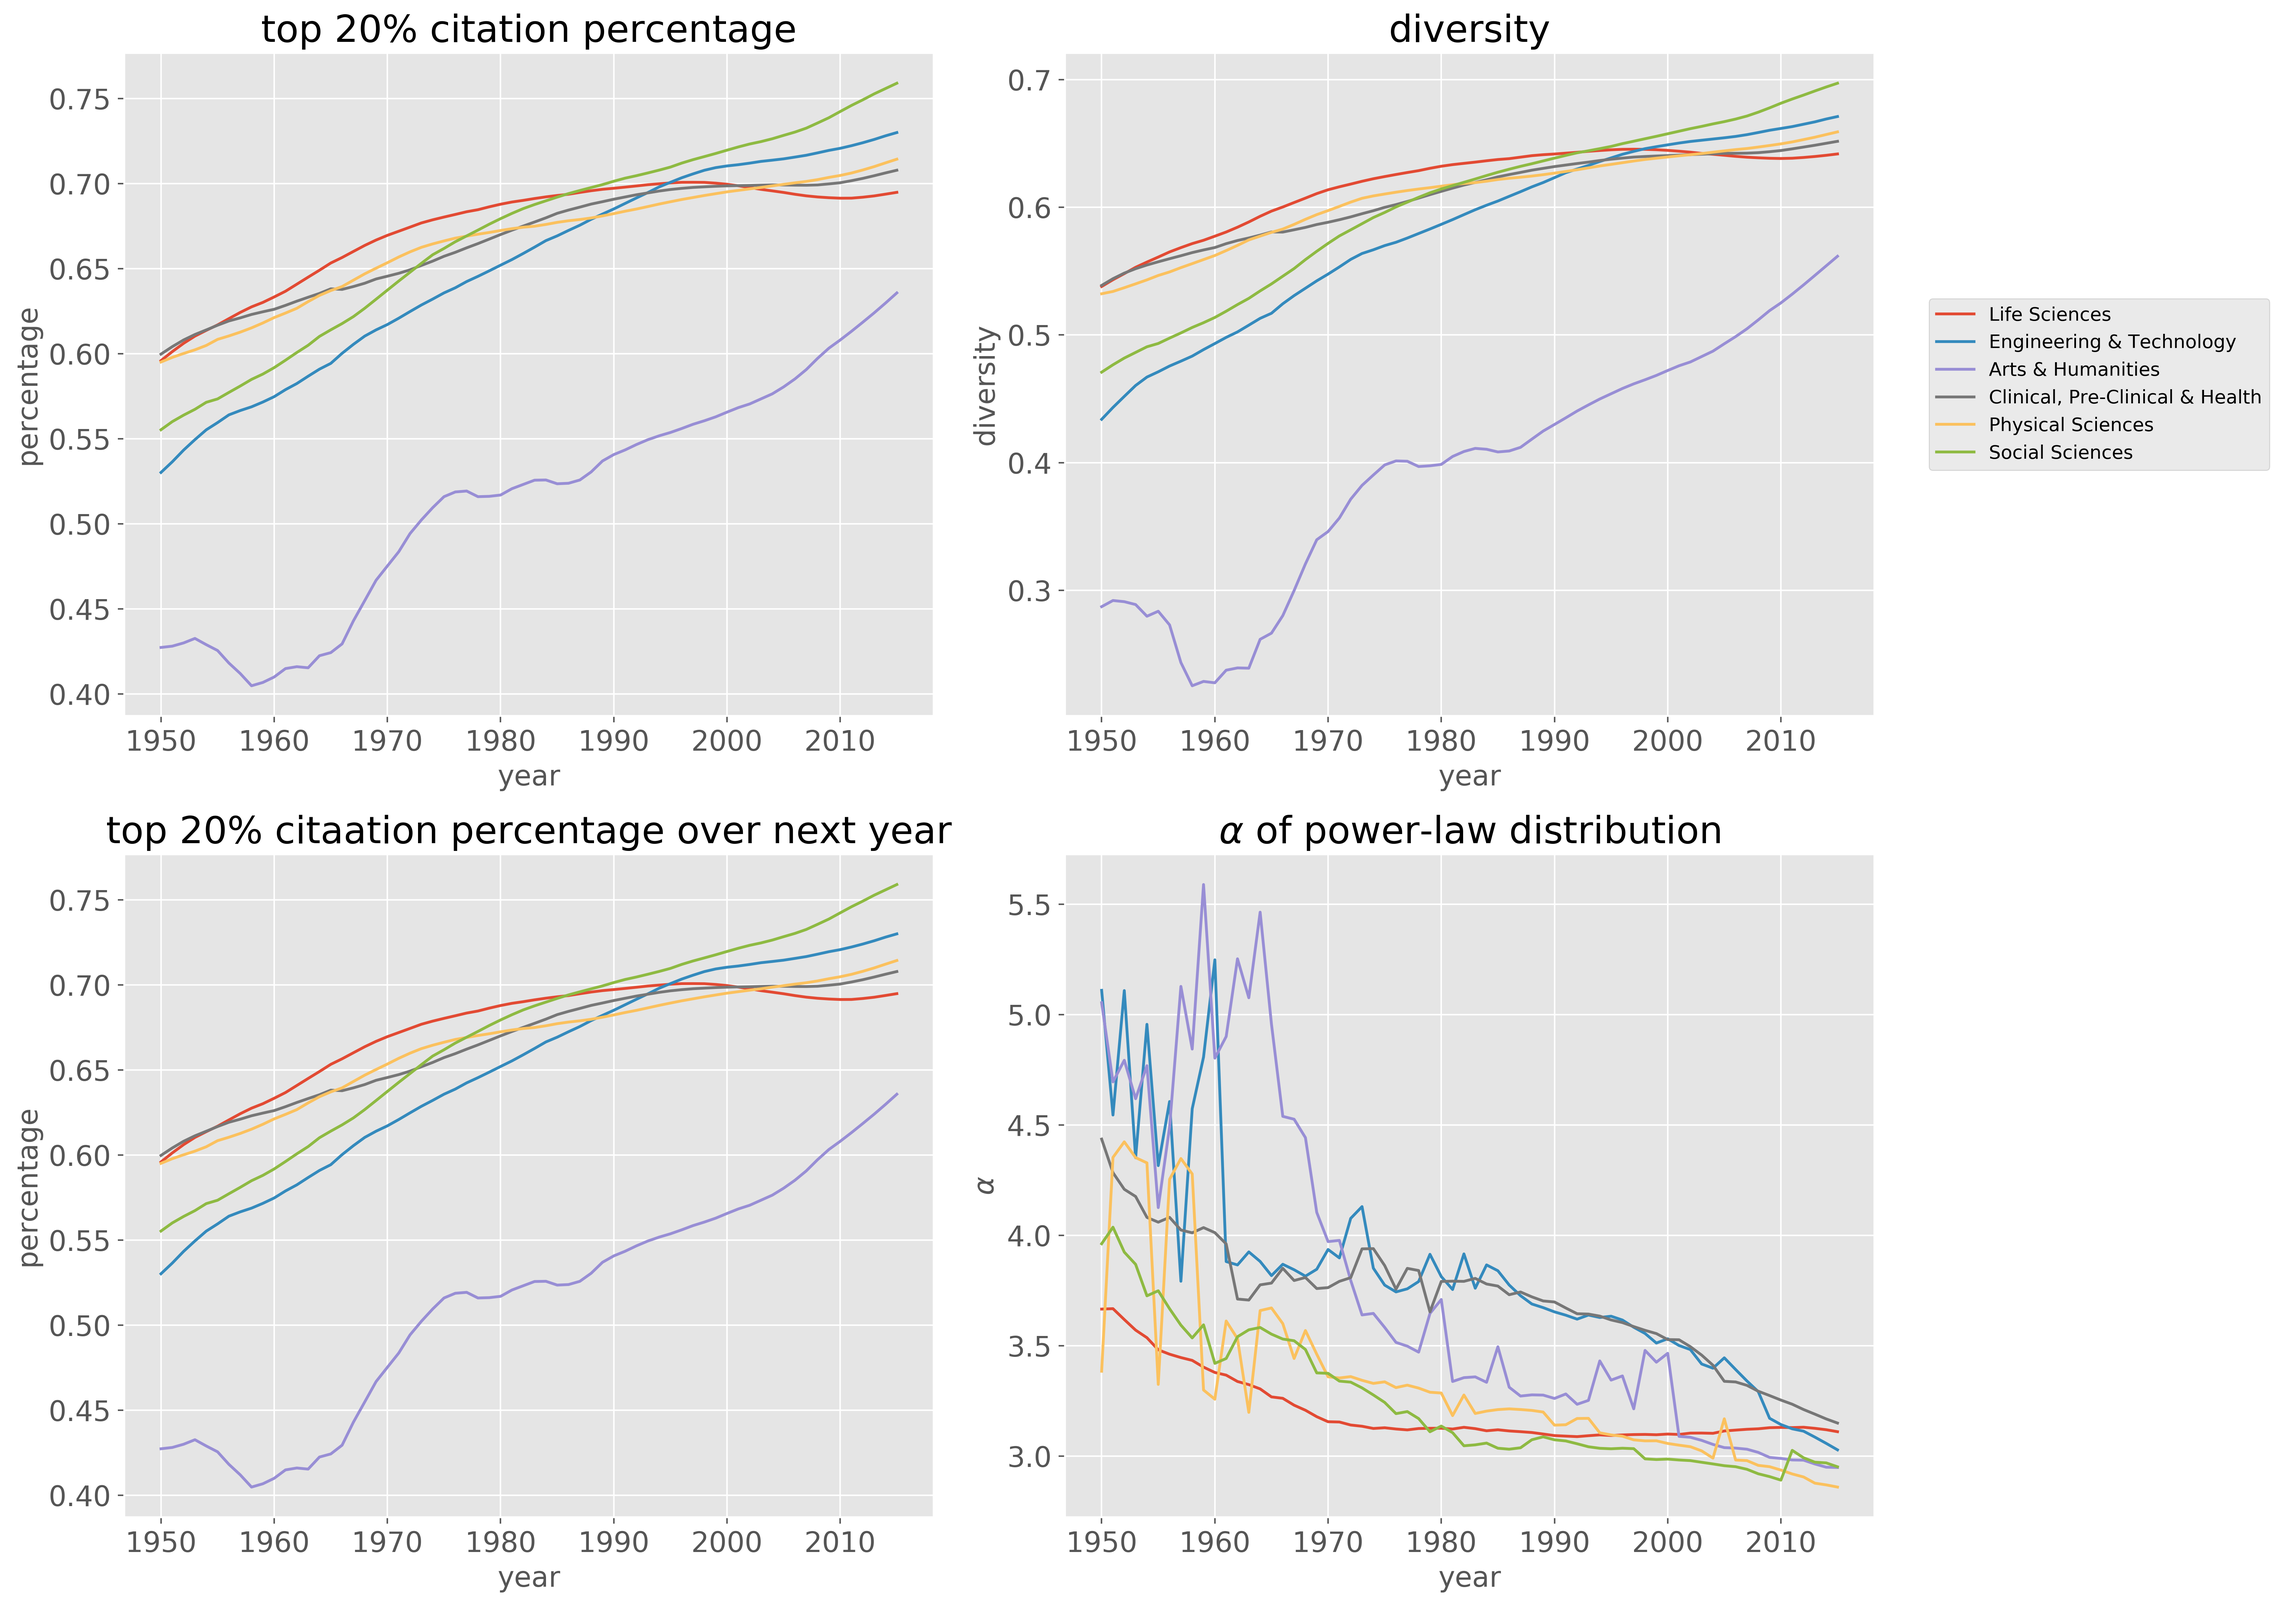
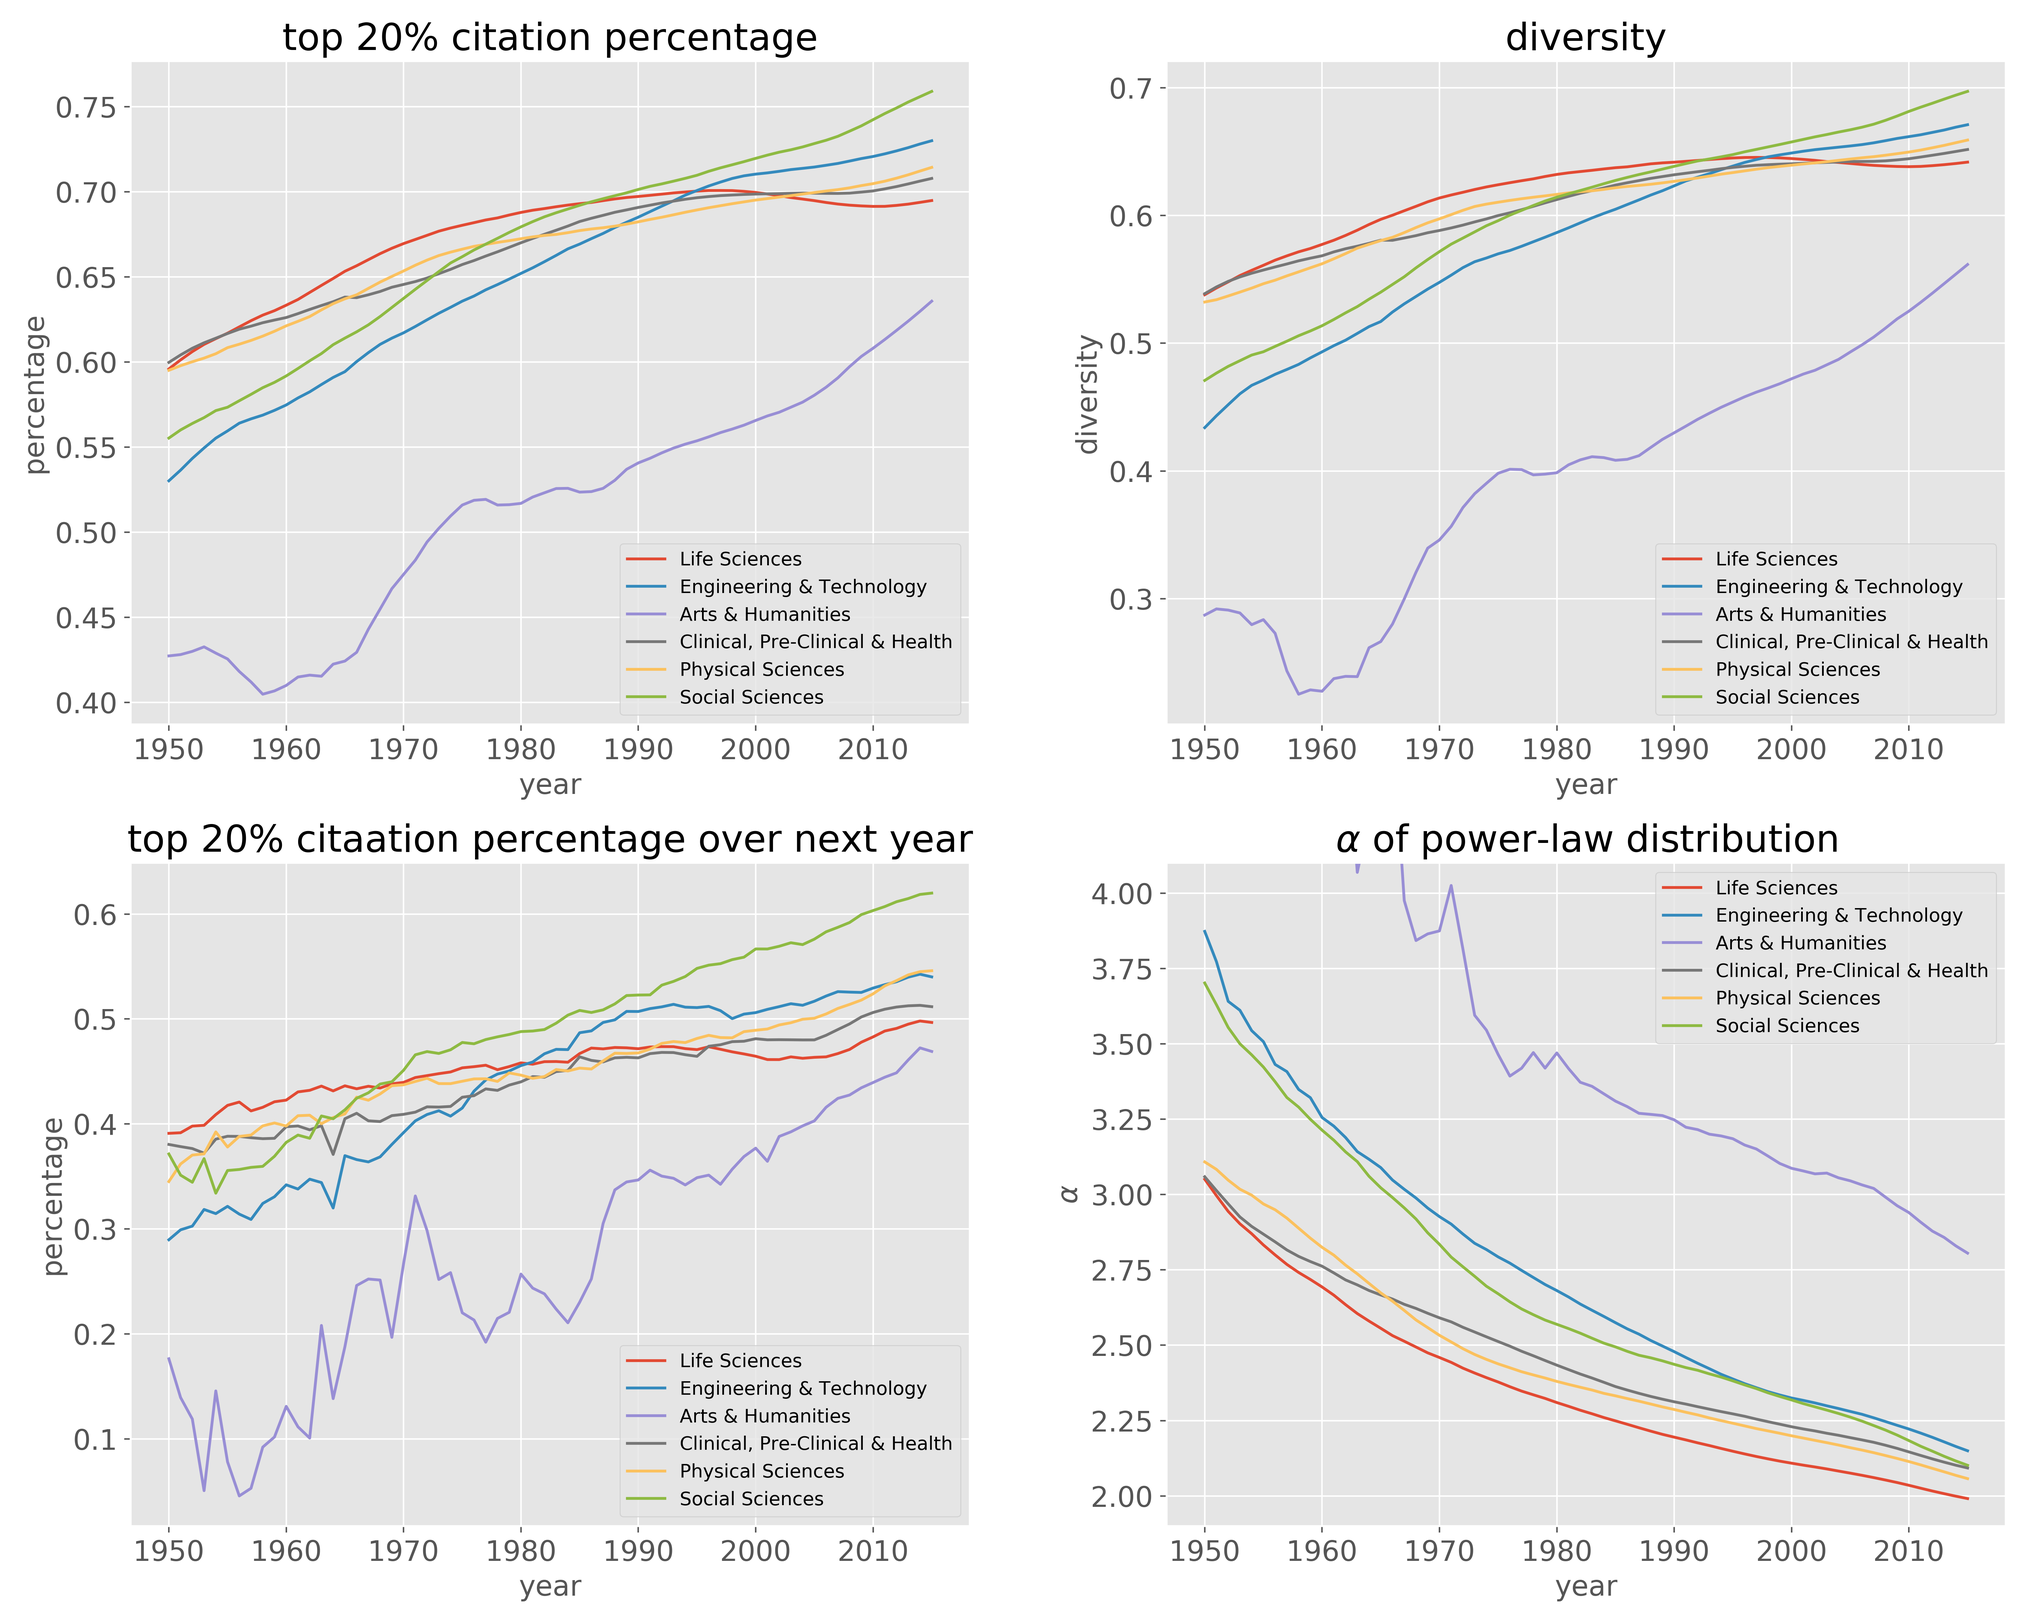
add

diff --git a/citation_inequalty.py b/citation_inequalty.py
@@ -147,7 +147,7 @@ def plot_diversity_figs():
 
     subj_type_xys = json.loads(open('subj_type_xys.json').read())
 
-    fig,axes = plt.subplots(2,2,figsize=(17,12))
+    fig,axes = plt.subplots(2,2,figsize=(15,12))
 
 
 
@@ -167,6 +167,8 @@ def plot_diversity_figs():
 
     ax.set_ylabel('percentage')
 
+    ax.legend(fontsize=10)
+
 
 
     ax = axes[0,1]
@@ -185,13 +187,15 @@ def plot_diversity_figs():
     ax.set_ylabel('diversity')
 
     # lgd2 = ax.legend()
-    lgd1 = ax.legend(loc=7,bbox_to_anchor=(1.5, 0.5), ncol=1,fontsize=10)
+    # lgd1 = ax.legend(loc=7,bbox_to_anchor=(1.5, 0.5), ncol=1,fontsize=10)
+    ax.legend(fontsize=10)
+
 
     ax = axes[1,0]
     for i,subj in enumerate(subj_type_xys.keys()):
 
         xs = subj_type_xys[subj]['xs']
-        divs = subj_type_xys[subj]['top20']
+        divs = subj_type_xys[subj]['ny_top20']
 
         ax.plot(xs,divs,label='{}'.format(subj))
 
@@ -201,6 +205,8 @@ def plot_diversity_figs():
     ax.set_xlabel('year')
 
     ax.set_ylabel('percentage')
+    ax.legend(fontsize=10)
+
 
 
     ax = axes[1,1]
@@ -218,11 +224,16 @@ def plot_diversity_figs():
 
     ax.set_ylabel('$\\alpha$')
 
+    ax.set_ylim(1.9,4.1)
+
+    ax.legend(fontsize=10)
+
+
 
 
     plt.tight_layout()
 
-    plt.savefig('me.png',dpi=400,additional_artists=[lgd1],bbox_inches="tight")
+    plt.savefig('me.png',dpi=400)
 
 
             
@@ -269,7 +280,7 @@ def powlaw_of_total(pid_citnum):
 
     values = pid_citnum.values()
 
-    results=powerlaw.Fit(values,xmin=10)
+    results=powerlaw.Fit(values,xmin=(1,10))
 
     return results.power_law.alpha
 
@@ -326,6 +337,30 @@ def diversity_of_equal_percentile(pid_citnum,N):
     return percents,diversity
 
 
+def test_powlaw():
+
+    xs = range(1,10000)
+
+    ys = [x**(-3) for x in xs]
+
+    ys2 = [x**(-4) for x in xs]
+
+    plt.figure(figsize=(8,6))
+
+    plt.plot(xs,ys,label='$y=x^{-3}$')
+    plt.plot(xs,ys2,label='$y=x^{-4}$')
+
+    plt.xscale('log')
+    plt.yscale('log')
+
+    plt.legend()
+
+    plt.tight_layout()
+
+    plt.savefig('test.png')
+
+
+
 if __name__ == '__main__':
     # stat_subj_paper_year_citnum()
 
@@ -333,6 +368,8 @@ if __name__ == '__main__':
 
 
     # plot_diversity_figs()
+
+    # test_powlaw()
 
 
 
